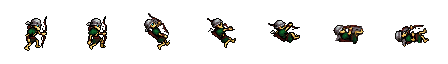
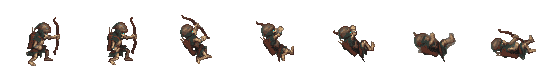
Esqueleto Arqueiro refeito de novo: mesmo traco do Guerreiro, ataque puxando o arco (lead-jab)
Claude-Session: https://claude.ai/code/session_01TtQZrh7QHjg7ZznbLxTsw5

diff --git a/Ferramentas/Personagens/inimigo_de_cima.py b/Ferramentas/Personagens/inimigo_de_cima.py
@@ -49,11 +49,10 @@ ESCOLHAS = {
     "Bruxo": {("ataque", "east"): [0, 1, 1, 4, 4, 0], ("ataque", "north"): [0, 1, 1, 4, 4, 5]},
     # Orc: no golpe de lado o machado some no quadro 4.
     "Orc": {("ataque", "east"): [0, 1, 2, 3, 5, 6]},
-    # Arqueiro: o ataque (fireball) poe fogo nos ultimos quadros; ficam os de puxar o arco.
-    # Geleia: no quadro 7 da morte a poca some (so o osso e a moeda).
-    "Geleia": {("morte", "east"): [0, 1, 2, 3, 4, 5, 6, 8]},
-    "EsqueletoArqueiro": {("ataque", "east"): [0, 1, 2, 4, 4, 1], ("ataque", "south"): [0, 1, 2, 2, 2, 0],
-                          ("ataque", "north"): [0, 1, 2, 3, 3, 0]},
+    # Arqueiro (refeito): o ataque e o lead-jab do skeleton-v3 (levanta o arco, puxa e solta, 3 quadros), com
+    # o puxar segurado um pouco; a flecha sai no quadro 3.
+    "EsqueletoArqueiro": {("ataque", "east"): [0, 1, 1, 2, 2, 0], ("ataque", "south"): [0, 1, 1, 2, 2, 0],
+                          ("ataque", "north"): [0, 1, 1, 2, 2, 0]},
 }
 ESCOLHA = {}
 
